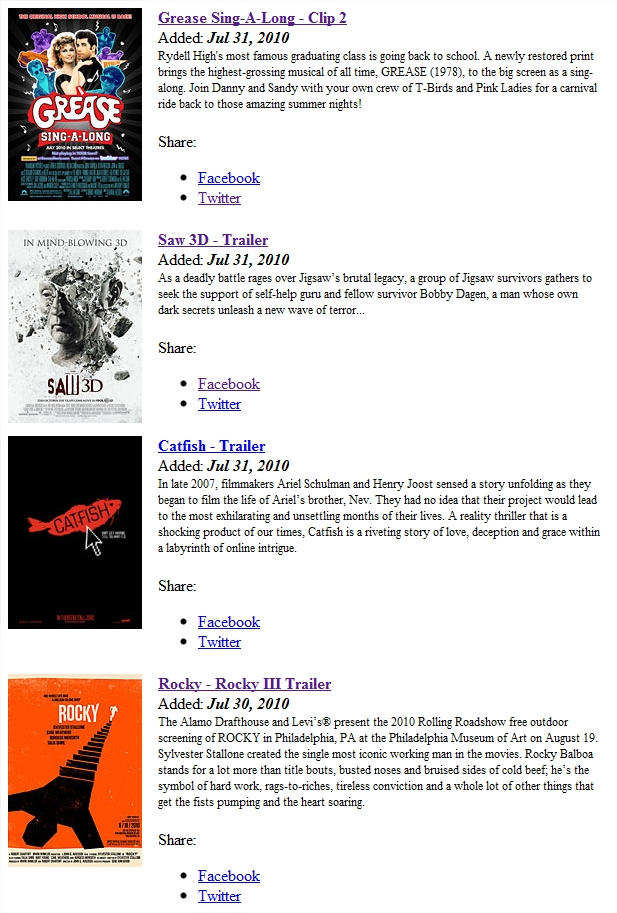
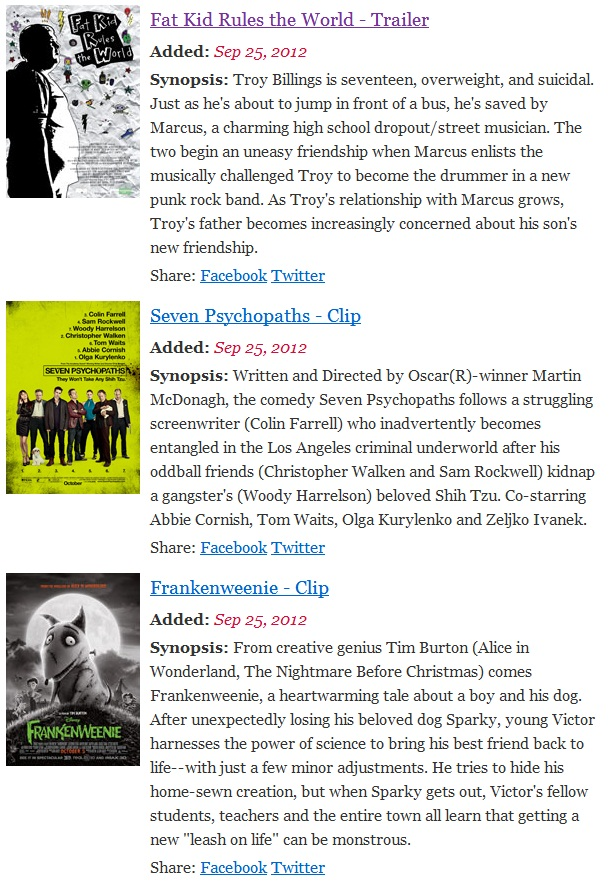
git-svn-id: https://plugins.svn.wordpress.org/latest-apple-movie-trailers/trunk@606678 b8457f37-d9ea-0310-8a92-e5e31aec5664

diff --git a/latest_apple_movie_trailers.php b/latest_apple_movie_trailers.php
@@ -1,46 +1,76 @@
 <?php
 /*
 Plugin Name: Latest Apple Movie Trailers
-Plugin URI: http://www.sebs-studio.com/freebies/wp-plugins
-Description: Displays latest movie trailers from http://trailers.apple.com/ along with poster and description.
+Plugin URI: http://www.sebs-studio.com/wp-plugins/latest-apple-movie-trailers/
+Description: Displays the latest movie trailers from http://trailers.apple.com/ along with the movie poster and synopsis.
 Author URI: http://www.sebs-studio.com/
 Author: Sebs Studio (Sebastien)
-Version: 1.1
-Tags: Posters, Trailers, Movies, Promotion, Entertainment, RSS, Feed, Apple, Films
-License: GPL3
+Version: 1.3
+License: GPL2
 */
+
+/*  Copyright (C) 2012  Sebastien (email : sebastien@sebs-studio.com)
+
+	This program is free software; you can redistribute it and/or
+	modify it under the terms of the GNU General Public License
+	as published by the Free Software Foundation; either version 2
+	of the License, or (at your option) any later version.
+	
+	This program is distributed in the hope that it will be useful,
+	but WITHOUT ANY WARRANTY; without even the implied warranty of
+	MERCHANTABILITY or FITNESS FOR A PARTICULAR PURPOSE.  See the
+	GNU General Public License for more details.
+	
+	You should have received a copy of the GNU General Public License
+	along with this program; if not, write to the Free Software
+	Foundation, Inc., 51 Franklin Street, Fifth Floor, Boston, MA  02110-1301, USA.
+*/
+
+// Plugin Name.
+define('sebsstudio_lamt_plugin_name', 'Latest Apple Movie Trailers');
+
+// Plugin Version.
+define('sebsstudio_lamt_plugin_version', '1.3');
+
+$plugin = plugin_basename(__FILE__);
 
 function display_apple_movie_trailers(){
 	require_once(ABSPATH.WPINC.'/rss.php');
 	$rss = fetch_rss("http://trailers.apple.com/trailers/home/rss/newtrailers.rss"); /* Fetches the apple movie trailer feed. */
-	if(get_option('lamt_poster_size') == 'poster-xlarge.jpg'){ $content = '<table width="800px"'; }else{ $content = '<table width="600px"'; }
-	$content .= ' cellpadding="2px" cellspacing="2px">';
+	$content = '<div class="trailers">';
 	if(!empty($rss)){
-		$items = array_slice($rss->items, 0, get_option('lamt_display_many')); /* Displays the amount of movie trailers added recently. 10 is Default! */
+		/* Displays the amount of movie trailers added recently. 10 is Default! */
+		$items = array_slice($rss->items, 0, get_option('lamt_display_many'));
 		foreach($items as $item){
-			$content .= '<tr><td valign="top">';
+			$content .= '<div class="trailer ';
+			// Poster Size
+			if(get_option('lamt_poster_size') == 'poster.jpg'){ $content .= 'normal'; }
+			if(get_option('lamt_poster_size') == 'poster-large.jpg'){ $content .= 'large'; }
+			if(get_option('lamt_poster_size') == 'poster-xlarge.jpg'){ $content .= 'extra'; }
+			// Caption Postition
+			if(get_option('lamt_caption_position') == 'next'){ $content .= ' caption'; }
+			$content .= '">';
+			/* Displays Movie Poster. */
+			$content .= '<div class="poster">';
 			$video_link = clean_url($item['link'], $protocolls = null, 'display');
-			$content .= '<a target="_blank" href="'.clean_url($item['link'], $protocolls=null, 'display').'" title="'.htmlentities($item['title']).'"><img class="latest_yt" src="'.$video_link.'images/'.get_option('lamt_poster_size').'" border="0" /></a></td>'; /* Displays Movie Poster. */
-			/* Default by Apple's Feed sets poster as a smaller image.*/
-			$content .= '<td>&nbsp;</td>';
-			$content .= '<td valign="top"><a target="_blank" href="'.clean_url($item['link'], $protocolls=null, 'display').'" title="'.htmlentities($item['title']).'"><span style="font-size:16px; font-weight:900; text-decoration:underline;">'.htmlentities($item['title']).'</span></a><br />';
-			$content .= 'Added: <em><b>'.date('M j, Y', strtotime($item['pubdate'])).'</b></em><br />'; /* Date of movie trailer added. */
-			$content .= '<span style="font-size:12px;">'.$item['description'].'</span><br /><br />';
-			$content .= 'Share: <ul id="share">';
-			$content .= '<li id="share-facebook"><a href="http://www.facebook.com/share.php?u='.clean_url($item['link'], $protocolls=null, 'display').'" target="_block" title="Share this on Facebook">Facebook</a></li>';
-			$content .= '<li id="share-twitter"><a href="http://twitter.com/home?status=See the trailer for &quot;'.htmlentities($item['title']).'&quot; '.clean_url($item['link'], $protocolls=null, 'display').'" target="_block" title="Share this on Twitter">Twitter</a></li>';
-			$content .= "</ul>\n";
-			$content .= "</td></tr>\n";
+			$content .= '<a target="_blank" href="'.clean_url($item['link'], $protocolls=null, 'display').'" title="'.htmlentities($item['title']).'"><img src="'.$video_link.'images/'.get_option('lamt_poster_size').'" border="0" alt="'.htmlentities($item['title']).'" /></a>';
+			$content .= "</div>\n";
+			/* Description of the Movie. */
+			$content .= '<div class="description"><h3><a target="_blank" href="'.clean_url($item['link'], $protocolls=null, 'display').'" title="'.htmlentities($item['title']).'">'.htmlentities($item['title']).'</a></h3>';
+			/* Date of movie trailer added. */
+			$content .= '<p><b>Added:</b> <em>'.date('M j, Y', strtotime($item['pubdate'])).'</em></p>'; 
+			$content .= '<p><b>Synopsis:</b> '.$item['description'].'</p>';
+			$content .= '<p>Share: <a href="http://www.facebook.com/share.php?u='.clean_url($item['link'], $protocolls=null, 'display').'" target="_blank" title="Share this on Facebook">Facebook</a>&nbsp;<a href="http://twitter.com/home?status=See the trailer for &quot;'.htmlentities($item['title']).'&quot; '.clean_url($item['link'], $protocolls=null, 'display').'" target="_blank" title="Share this on Twitter">Twitter</a></p>';
+			$content .= "</div></div>\n";
 		}
 	}
 	else{
-		$content = "<tr>\n";
-		$content .= "<td>Apple Movie Trailers Feed not found!</td>\n";
-		$content .= "<td>Please try again later</td>\n";
-		$content .= "</tr>\n";
+		$content .= "<p>Apple Movie Trailers Feed not found!</p>\n";
+		$content .= "<p>Please try again later<p>\n";
 	}
-	$content .= '</table>';
-	return $content; /* Displays the Apple Movie Trailers Feed. */
+	$content .= '</div>';
+	/* Displays the Apple Movie Trailers Feed. */
+	return $content;
 }
 /* Add [apple_trailers] to your post or page to display latest movie trailers. */
 if(function_exists('display_apple_movie_trailers')){
@@ -49,23 +79,71 @@ if(function_exists('display_apple_movie_trailers')){
 }
 
 /* Runs when plugin is activated */
-register_activation_hook(__FILE__,'apple_latest_trailers_install'); 
+register_activation_hook(__FILE__, 'apple_latest_trailers_install'); 
 
-/* Runs on plugin deactivation*/
-register_deactivation_hook( __FILE__, 'apple_latest_trailers_remove' );
+/* Runs on plugin deactivation */
+register_deactivation_hook( __FILE__, 'apple_latest_trailers_remove');
 
-function apple_latest_trailers_install() {
+/** 
+ * Send an API ping when the plugin is activated.
+ */
+function activate_sebsstudio_lamt_plugin(){
+	$api = "http://api.sebs-studio.com/?plugin=1&name=".urlencode(sebsstudio_lamt_plugin_name)."&version=".urlencode(sebsstudio_lamt_plugin_version)."&site=".urlencode(home_url());
+	wp_remote_get($api);
+}
+
+/** 
+ * Send an API ping when the plugin is disactivated.
+ */
+function deactivate_sebsstudio_lamt_plugin(){
+	$api = "http://api.sebs-studio.com/?plugin=0&name=".urlencode(sebsstudio_lamt_plugin_name)."&site=".urlencode(home_url());
+	wp_remote_get($api);
+}
+
+function apple_latest_trailers_install(){
 	/* Creates new database field */
-	add_option("lamt_display_many", '10', '', 'yes');
-	add_option("lamt_poster_size", 'poster.jpg', '', 'yes');
+	add_option("lamt_display_many", "10", "", "yes");
+	add_option("lamt_poster_size", "poster.jpg", "", "yes");
+	add_option("lamt_caption_position", "next", "", "yes");
+	activate_sebsstudio_lamt_plugin();
 }
 
 function apple_latest_trailers_remove() {
 	/* Deletes the database field */
 	delete_option('lamt_display_many');
 	delete_option('lamt_poster_size');
+	delete_option('lamt_caption_position');
+	deactivate_sebsstudio_lamt_plugin();
 }
 
+add_action('wp_enqueue_scripts', 'latest_apple_movie_trailers_stylesheet');
+function latest_apple_movie_trailers_stylesheet(){
+	wp_register_style('latest-apple-movie-trailers-style', plugins_url('latest-apple-movie-trailers.css', __FILE__));
+	wp_enqueue_style('latest-apple-movie-trailers-style');
+}
+
+/* Adds an action link for the plugin on the Plugins page. */
+if(is_admin()){
+	function lamt_plugin_action_links($links, $file){
+		static $this_plugin;
+		if(!$this_plugin){
+			$this_plugin = plugin_basename(__FILE__);
+		}
+		// Check to make sure we are on the correct plugin.
+		if($file == $this_plugin){
+			// The anchor tag and href to the url of the settings page.
+			$settings_link = '<a href="options-general.php?page=latest-apple-movie-trailers/latest_apple_movie_trailers.php">Settings</a>';
+			$settings_link .= ' | ';
+			$settings_link .= '<a href="http://www.sebs-studio.com/wp-plugins/" target="_blank">Other Plugins</a>';
+			// add the link to the list
+			array_unshift($links, $settings_link);
+		}
+		return $links;
+	}
+	add_filter("plugin_action_links_".$plugin, 'lamt_plugin_action_links', 10, 2);
+}
+
+/* Adds settings page link under 'Settings'. */
 if(is_admin()){
 	function apple_latest_trailers_menu(){
 		add_options_page('Latest Apple Movie Trailers', 'Latest Apple Movie Trailers', 'manage_options', __FILE__, 'apple_latest_trailers_settings');
@@ -76,47 +154,100 @@ if(is_admin()){
 function apple_latest_trailers_settings(){
 	$display_many = get_option('lamt_display_many');
 	$poster_size = get_option('lamt_poster_size');
+	$caption_position = get_option('lamt_caption_position');
 ?>
+<style type="text/css">
+.trailers{ width:100%; }
+.trailer{ min-width:134; float:left; display:block; margin-bottom:10px; }
+.trailer.caption{ float:left; display:block; }
+.trailer .poster{ float:left; margin-right:10px; margin-bottom:6px; }
+.trailer .poster img{ border:none; }
+.trailer.normal .poster{ width:134px; }
+.trailer.large .poster{ width:261px; }
+.trailer.extra .poster{ width:540px; }
+.trailer .description{ float:left; width:100%; clear:left; display:block; margin-top:0px; }
+.trailer .description h3{ margin:6px 0px; }
+.trailer .description p{ margin:4px 0px; }
+.trailer .description em{ color:rgb(209, 13, 60); }
+.trailer.caption .description{ clear:right; margin-top:0px; }
+.trailer.caption .description h3{ margin:0px 0px 6px 0px; }
+.trailer.normal.caption .description{ width:70%; }
+.trailer.large.caption .description{ width:60%; }
+.trailer.extra.caption .description{ width:30%; }
+
+/* Support */
+div.support{ background-color:#eee; padding:10px; display:block; position:absolute; top:50px; right:14px; width:240px; }
+.support ul li a.share{ background-position:left center; background-repeat:no-repeat; padding-left:42px; height:40px; display:block; line-height:38px; }
+.support ul li a.share.facebook{ background-image:url('<?php echo plugins_url('support/facebook.png', __FILE__); ?>'); }
+.support ul li a.share.twitter{ background-image:url('<?php echo plugins_url('support/twitter.png', __FILE__); ?>'); }
+.support ul li a.share.dropbox{ background-image:url('<?php echo plugins_url('support/dropbox.png', __FILE__); ?>'); }
+.support ul li a.share.github{ background-image:url('<?php echo plugins_url('support/github.png', __FILE__); ?>'); }
+</style>
 <div class="wrap">
-<h2>Latest Apple Movie Trailers</h2>
+	<h2>Latest Apple Movie Trailers</h2>
+	<form method="post" action="options.php">
+	<?php wp_nonce_field('update-options'); ?>
+	<table class="form-table">
+		<tr valign="top">
+			<th scope="row">How many trailers to display ?</th>
+			<td>
+			<select name="lamt_display_many" size="1">
+			<?php
+			for($show=1; $show<=20; $show++){
+				echo '<option value="'.$show.'"';
+				if($display_many == $show){ echo ' selected="selected"'; }
+				echo '>'.$show.'</option>';
+			}
+			?>
+			</select>
+			</td>
+		</tr>
+		<tr valign="top">
+			<th scope="row">Poster Size</th>
+			<td>
+			<select name="lamt_poster_size" size="1">
+			<option value="poster.jpg"<?php if($poster_size == 'poster.jpg'){ echo ' selected="selected"'; } ?>>Normal</option>
+			<option value="poster-large.jpg"<?php if($poster_size == 'poster-large.jpg'){ echo ' selected="selected"'; } ?>>Large</option>
+			<option value="poster-xlarge.jpg"<?php if($poster_size == 'poster-xlarge.jpg'){ echo ' selected="selected"'; } ?>>Extra Large</option>
+			</select>
+			</td>
+		</tr>
+		<tr valign="top">
+			<th scope="row">Description Position</th>
+			<td>
+			<select name="lamt_caption_position" size="1">
+			<option value="next"<?php if($caption_position == "next"){ echo ' selected="selected"'; } ?>>Next to Poster</option>
+			<option value="under"<?php if($caption_position == "under"){ echo ' selected="selected"'; } ?>>Underneith the Poster</option>
+			</select>
+			</td>
+		</tr>
+		<tr>
+			<th scope="row">Deactivation</th>
+			<td><p style="color:red;">If you deactivate the plugin, the options above will be deleted.</p></td>
+		</tr>
+	</table>
+	<input type="hidden" name="action" value="update">
+	<input type="hidden" name="page_options" value="lamt_display_many, lamt_poster_size, lamt_caption_position">
+	<p class="submit"><input type="submit" class="button-primary" value="<?php _e('Save Changes') ?>" /></p>
+	</form>
 
-<form method="post" action="options.php">
-<?php wp_nonce_field('update-options'); ?>
-<table class="form-table">
-<tr valign="top">
-<th scope="row">Display How Many?</th>
-<td>
-<select name="lamt_display_many" size="1">
-<?php
-for($show=1; $show<=20; $show++){
-	echo '<option value="'.$show.'"';
-	if($display_many == $show){ echo ' selected="selected"'; }
-	echo '>'.$show.'</option>';
-}
-?>
-</select>
-</td>
-</tr> 
-<tr valign="top">
-<th scope="row">Poster Size:</th>
-<td>
-<select name="lamt_poster_size" size="1">
-<option value="poster.jpg"<?php if($poster_size == 'poster.jpg'){ echo ' selected="selected"'; } ?>>Normal</option>
-<option value="poster-large.jpg"<?php if($poster_size == 'poster-large.jpg'){ echo ' selected="selected"'; } ?>>Large</option>
-<option value="poster-xlarge.jpg"<?php if($poster_size == 'poster-xlarge.jpg'){ echo ' selected="selected"'; } ?>>Extra Large</option>
-</select>
-</td>
-</tr>
-
-</table>
-<input type="hidden" name="action" value="update" />
-<input type="hidden" name="page_options" value="lamt_display_many, lamt_poster_size" />
-<p class="submit"><input type="submit" class="button-primary" value="<?php _e('Save Changes') ?>" /></p>
-</form>
-<h3>Preview</h3>
-<?php echo display_apple_movie_trailers(); ?>
+	<h3>Preview</h3>
+	<?php echo display_apple_movie_trailers(); ?>
+</div>
+<div class="support">
+<a href="http://www.sebs-studio.com" target="_blank"><img src="<?php echo plugins_url('support/sebs-studio.png', __FILE__); ?>" width="240" height="50" alt="Sebs Studio" /></a>
+<p>Plugin Version: <?php echo sebsstudio_lamt_plugin_version; ?>
+<p><b>Show your Support</b></p>
+<ul>
+	<li><a href="http://wordpress.org/extend/plugins/latest-apple-movie-trailers/" target="_blank">Rate the plugin 5 star on WordPress.org</a></li>
+	<li><a href="http://www.sebs-studio.com/wp-plugins/latest-apple-movie-trailers/#utm_source=wpadmin&utm_medium=sidebanner&utm_term=link&utm_campaign=wp_lamt_plugin" target="_blank">Blog about it & link to the plugin page</a></li>
+	<li><a href="http://www.amazon.co.uk/registry/wishlist/1M6UT1XVTL88X" target="_blank">Buy me something from my wishlist</a></li>
+	<li><a class="share facebook" href="https://www.facebook.com/sebsstudio" target="_blank">Like Sebs Studio on Facebook</a></li>
+	<li><a class="share twitter" href="https://twitter.com/sebsstudio" target="_blank">Follow Sebs Studio on Twitter</a></li>
+	<li><a class="share dropbox" href="http://db.tt/kgspZ0k" target="_blank">Sign Up to Dropbox</a></li>
+	<li><a class="share github" href="https://github.com/seb86" target="_blank">Fork Me on Github</a></li>
+</ul>
 </div>
 <?php
-}
-
+} // end of plugin.
 ?>
